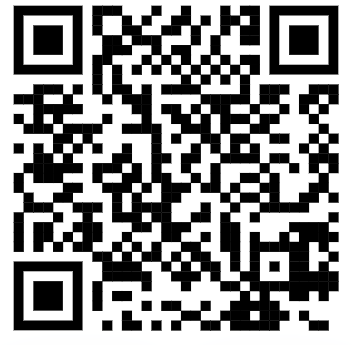
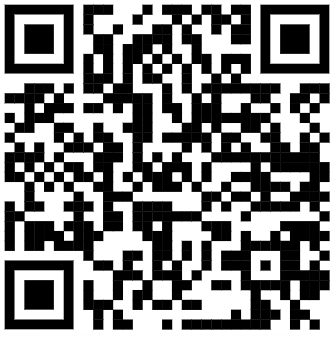
update

diff --git a/app.py b/app.py
@@ -250,7 +250,7 @@ if selected == "Discord Server":
 	st.write(' ')
 	st.write("En este servidor registra todos los resultados intermedios y finales productos de la hackatón de Evoke. Vas a encontrar un canal para cada uno de los equipos, aprovecha para compartir con los demás equipos tus resultados y ver los resultados de los demás.")
 	st.subheader("Discord Server Quidlab - Hackatón Evoke")
-	body = '<a href="https://discord.gg/UrgFx5RS">https://discord.gg/UrgFx5RS</a>'
+	body = '<a href="https://discord.gg/Fcz2NM7pSz">https://discord.gg/Fcz2NM7pSz</a>'
 	st.markdown(body, unsafe_allow_html=True)
 
 	image = PIL.Image.open('QR_discord.PNG')
